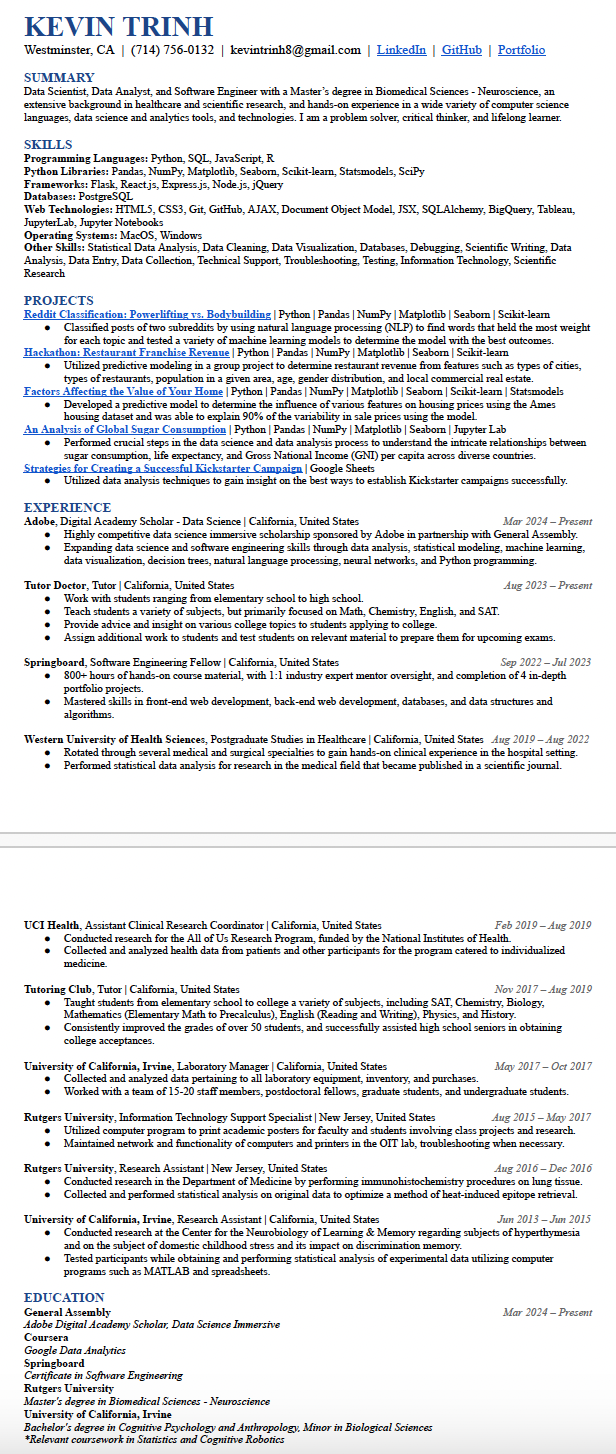
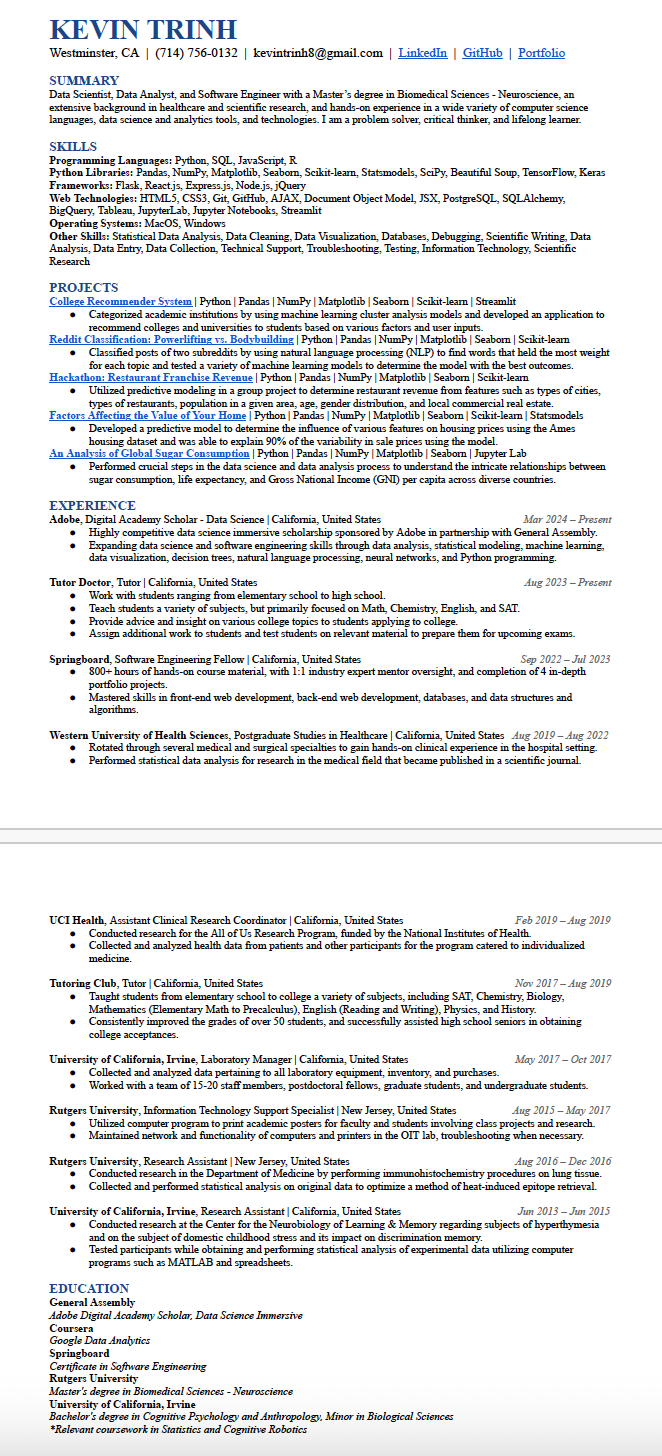
update projects and resume

diff --git a/index.html b/index.html
@@ -52,6 +52,17 @@
       <div class="row">
         <div class="col-md-4 mb-4">
           <div class="card">
+            <img src="./images/collegerecommendersystem.png" class="card-img-top" alt="College Recommender System Project">
+            <div class="card-body">
+              <h5 class="card-title">College Recommender System</h5>
+              <p class="card-text">The goal of this project was to categorize academic institutions by using machine learning cluster analysis models and to develop an application to recommend colleges and universities to students based on various factors and user inputs.</p>
+              <a href="https://drive.google.com/file/d/1DiJCC1mtakHolOs3QZZxp8WFjG62imOW/view?usp=sharing" class="btn btn-primary" target="_blank">View Project</a>
+              <a href="https://github.com/KevinTrinh9/project-college-recommender-system" class="btn btn-secondary" target="_blank">View Project Code</a>
+            </div>
+          </div>
+        </div>
+        <div class="col-md-4 mb-4">
+          <div class="card">
             <img src="./images/redditclassification.png" class="card-img-top" alt="Reddit Classification Project">
             <div class="card-body">
               <h5 class="card-title">Reddit Classification: Powerlifting vs. Bodybuilding</h5>
@@ -158,7 +169,7 @@
       <div class="row">
         <div class="col-md-6 mx-auto">
           <p>Please click the image of my resume below to view/download my resume.</p>
-          <a href="https://drive.google.com/file/d/1kjbGo6baR62lll3qmk0-ii9xFesDDs2R/view?usp=sharing" target="_blank"><img src="./images/resume.png" alt="Resume" class="resume-img"></a>
+          <a href="https://drive.google.com/file/d/1bkRKTUmxBdjD-WQaY1nzgiEe6FpivWwd/view?usp=sharing" target="_blank"><img src="./images/resume.png" alt="Resume" class="resume-img"></a>
         </div>
       </div>
     </div>
